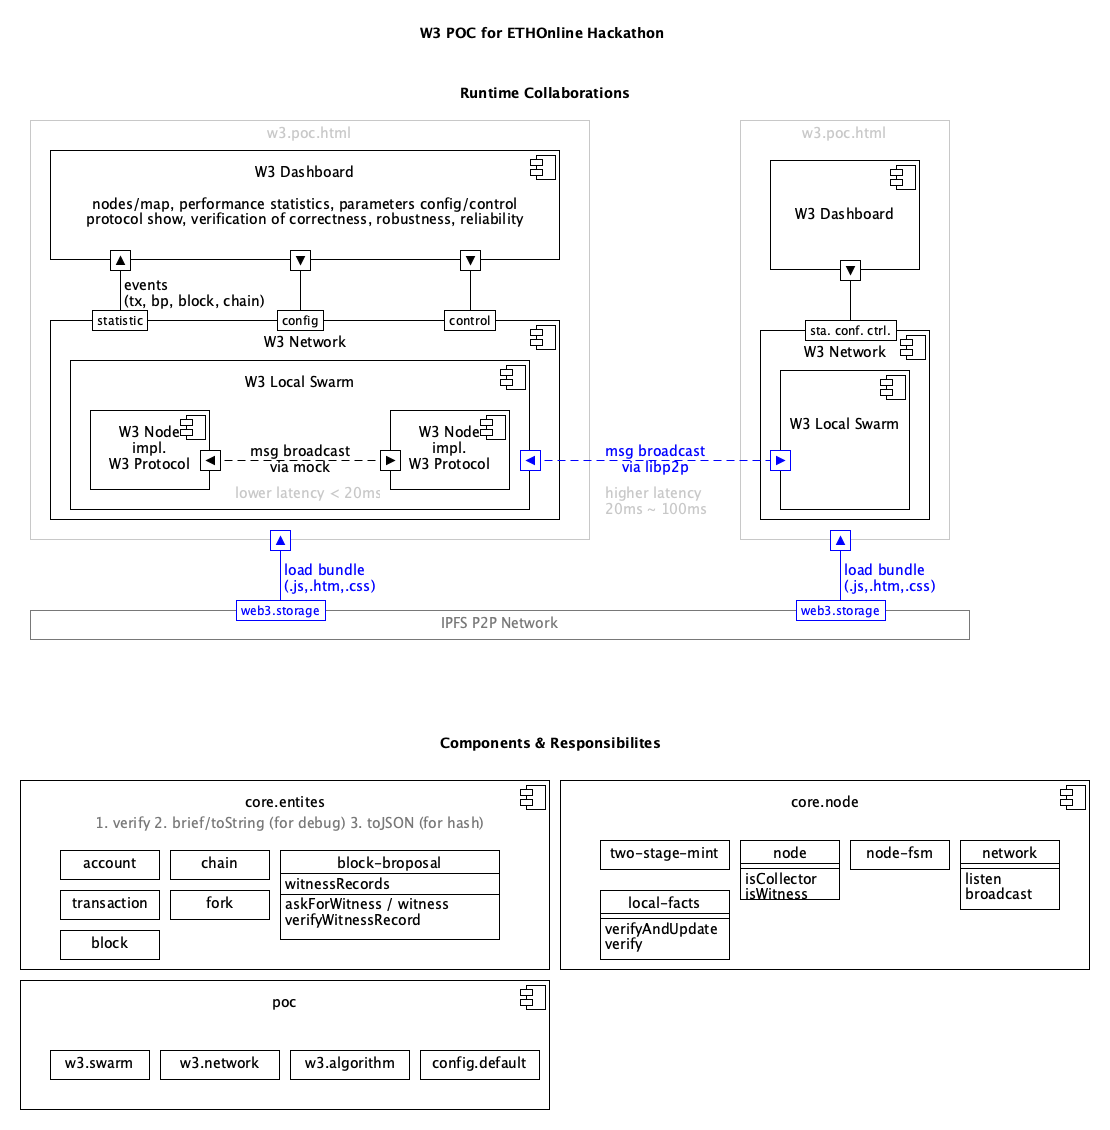
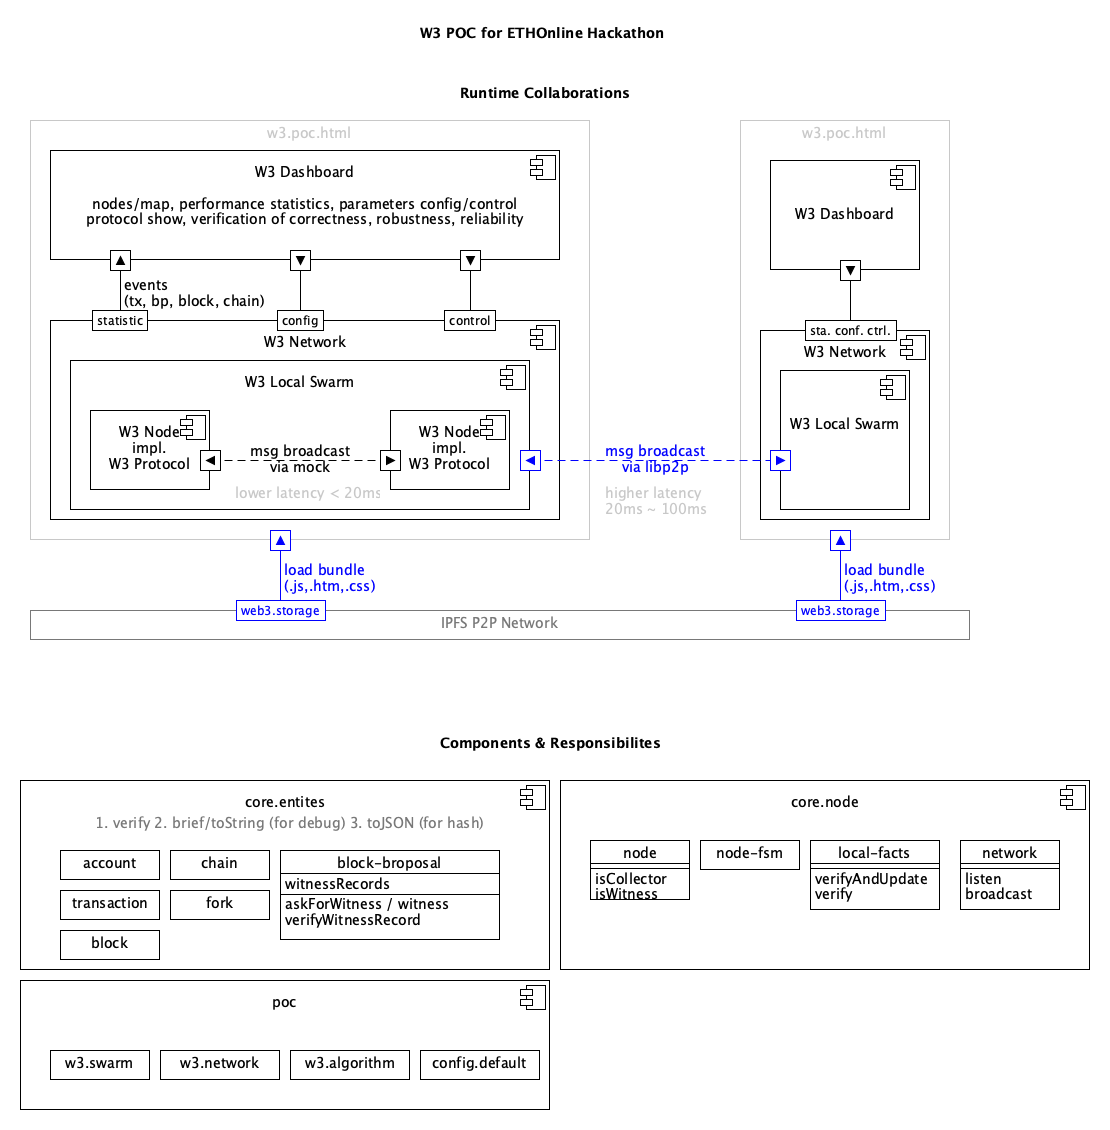
#2 refactor change names

Changed region(s): [[0.5207, 0.7434, 0.8577, 0.8363]]

diff --git a/src/w3/core/node/local-facts.js b/src/w3/core/node/local-facts.js
@@ -5,57 +5,86 @@ import EventEmitter2 from 'eventemitter2'
 
 const debug = Debug('w3:TxsPool')
 
+/**
+ * LocalFacts in used to verify messages (tx, bp, block, fork) received by a node in its 2-stages-mint process.
+ * If a message is verified, its data will verifyThenUpdateOrAddTx to local facts (pools), and the 2-stage-mint process will proceed,
+ * otherwise, the message will be droped and the process halts.
+ */
 class LocalFacts extends EventEmitter2{
   constructor (txCount) {
     super()
     this.txCount = txCount
     this.txPool = [] // { tx, state } state: tx | bp | block | chain
+    // TODO: all these pools may use in future in
+    this.bpPool = []
+    this.blockPool = []
+    this.forkPool = []
+  }
+
+  init(chain) {
+    this.chain = chain
   }
 
   reset () {
     this.txPool = []
   }
 
-  add (tx, state) {
-    let found = false, replaced = null
+  /**
+   * TODO: using traditional tx verification algorithm verify against local fact
+   * Illegal txPool
+   * 2. txPool with invalid nonce
+   * 3. txPool with invalid value
+   * 4. txPool with invalid fee
+   * 5. txPool with invalid gasPrice
+   * 9. txPool with invalid timestamp
+   *
+   * @return {valid: true | false, txRes: 'added' | 'replaced' | 'rejected' }
+   */
+  verifyThenUpdateOrAddTx (tx, state) {
+    let res = null
     for (let _tx of this.txPool) {
-      if (_tx.tx.equals(tx)) {
-        found = true
-        _tx.state = state
-        break
-      }
-
-      if (_tx.tx.isDoubleSpend(tx)) {
-        found = true
-        const winner = _tx.tx.resolveDoubleSpending(tx)
-        replaced = !_tx.tx.equals(winner)
-        replaced && (_tx.tx = winner)
-        _tx.state = state
-        // if (_tx.state === 'chain') 链上块错误，发送查询消息获取正确块，发送fork消息 // TODO: not implemented
-        // _tx.state 'tx', 'bp', 'block'阶段，直接替换，不需要发送消息，由其它节点自行分辨问题
-
-        // TODO: may also check current chain
-        break
-      }
-
+      if ('updatedState' === (res = this.updateStateWhenTxFound(_tx, tx, state))) break
+      if ( null !== (res = this.resolveDoubleSpendingWhenFound(_tx, tx, state))) break
     }
 
-    found || this.txPool.push({ tx, state })
-    const res = !found ? 'added' : replaced === null ? 'updatedState' : replaced ? 'replaced' : 'rejected'
-    this.emit('tx-added', {tx, state, res})
+    if (res === null ) {
+      res = 'added'
+      this.txPool.push({ tx, state })
+    }
+
+    this.emit('tx-updated-or-added', {tx, state, res})
     return res
   }
 
-  updateTxsState (txs, state) {
-    txs.map(tx => this.updateState(tx, state))
+  updateStateWhenTxFound (_tx, tx, state) {
+    return _tx.tx.equals(tx) ? ((_tx.state = state),  'updatedState') : null
   }
 
-  updateState (tx, state) {
+  resolveDoubleSpendingWhenFound (_tx, tx, state) {
+    let replaced = null
+    if (_tx.tx.isDoubleSpend(tx)) {
+      const winner = _tx.tx.resolveDoubleSpending(tx)
+      replaced = !_tx.tx.equals(winner)
+      replaced && (_tx.tx = winner)
+      _tx.state = state
+      // if (_tx.state === 'chain') 链上块错误，发送查询消息获取正确块，发送fork消息 // TODO: not implemented
+      // _tx.state 'tx', 'bp', 'block'阶段，直接替换，不需要发送消息，由其它节点自行分辨问题
+
+      // TODO: may also check current chain
+    }
+    return replaced === null ? null : replaced ? 'replaced' : 'rejected'
+  }
+
+  updateTxsState (txs, state) {
+    txs.map(tx => this.updateTxState(tx, state))
+  }
+
+  updateTxState (tx, state) {
     const _tx = this.txPool.find(_tx => _tx.tx.equals(tx))
     _tx && (_tx.state = state)
   }
 
-  pickEnoughForBp (txCount = this.txCount) {
+  pickEnoughTxsForBp (txCount = this.txCount) {
     const txs = this.txPool.filter(({ state }) => state === 'tx')
     if (txs.length === txCount) {
       // debug('--- SHOW: this.txPool.length: ', this.txPool.length)
@@ -73,22 +102,7 @@ class LocalFacts extends EventEmitter2{
 
   async verifyAndAddTx (tx, state = 'tx') {
     if (!await tx.verify()) return { valid: false, txRes: 'rejected' }
-    /**
-     * TODO: using traditional tx verification algorithem verify against local fact
-     * Illegal txPool
-     * 2. txPool with invalid nonce
-     * 3. txPool with invalid value
-     * 4. txPool with invalid fee
-     * 5. txPool with invalid gasPrice
-     * 5. txPool with invalid from
-     * 6. txPool with invalid to
-     * 9. txPool with invalid timestamp
-     *
-     * TODO: find double spend txPool add apply the Universal Rule
-     *
-     * results: 1. added, 2. replaced, 3. rejected
-     */
-    const txRes = this.add(tx, state)
+    const txRes = this.verifyThenUpdateOrAddTx(tx, state)
     return { valid: true, txRes}
   }
 
@@ -116,7 +130,7 @@ class LocalFacts extends EventEmitter2{
   async verifyBlockAndAddTxs (block, node) { // TODO: not tested in single node mode
     let valid = await block.verify(node)
     if (!valid) debug('--- FATAL: verifyBlockAndAddTxs: block is invalid, should not happen', block.brief)
-    let { allTxValid } = await this._verifyAndUpdateTxs(block.txs, valid ? 'chain' : 'tx') // valid block add to chain
+    let { allTxValid } = await this._verifyAndUpdateTxs(block.txs, valid ? 'chain' : 'tx') // valid block verifyThenUpdateOrAddTx to chain
     return { valid: valid && allTxValid }
   }
 

diff --git a/src/w3/core/node/node.js b/src/w3/core/node/node.js
@@ -22,6 +22,7 @@ class Node {
     // const chain = await this.initChain() // TODO bypass in theory test
     // this.chain = await Chain.create(chain)
     this.chain = await Chain.create()
+    this.localFacts.init(this.chain)
   }
 
   reset() {
@@ -70,9 +71,9 @@ class Node {
 
     this.network.listen('fork',  (fork) => this.handleForkWins(fork), this)
 
-    this.localFacts.on('tx-added', async ({tx, state, res}) => {
+    this.localFacts.on('tx-updated-or-added', async ({tx, state, res}) => {
       if (res === 'added') { // updatedState, replaced, rejected means the count of txPool in the pool is not change
-        const txs = this.localFacts.pickEnoughForBp()
+        const txs = this.localFacts.pickEnoughTxsForBp()
         txs && await this.askForWitnessAndMint(txs)
       }
     })
@@ -131,7 +132,7 @@ class Node {
     this.network.recordCollector(tx, this)
     // the tx is not only collected from tx messages, but also colected from bp, block, fork messages containing valid txPool
     // therefore refator the ASF logic to the localFacts's tx-added event handler
-    // const txPool = this.localFacts.pickEnoughForBp()
+    // const txPool = this.localFacts.pickEnoughTxsForBp()
     // txPool && addwait this.askForWitnessAndMint(txPool)
   }
 
@@ -168,7 +169,7 @@ class Node {
 
   async mintBlock (bp) {
     const block = Block.mint(bp, this.chain)
-    if (!this.isSingleNode) this.chain.addBlock(block, this) // add to local chain before broadcast, singleNodeMode will add it in handleNewBlock
+    if (!this.isSingleNode) this.chain.addBlock(block, this) // verifyThenUpdateOrAddTx to local chain before broadcast, singleNodeMode will verifyThenUpdateOrAddTx it in handleNewBlock
     this.localFacts.updateTxsState(block.txs, 'chain')
     this.network.broadcast('block', block, this) //this used in theory test to aviod of react on its own message
   }

diff --git a/src/w3/core/entities/transaction.js b/src/w3/core/entities/transaction.js
@@ -15,6 +15,22 @@ class Transaction {
     return `${this.i}:(${this.from?.i}#${this.nonce}(${this.value})=>${this.to?.i})`
   }
 
+
+  /**
+   * TODO: using traditional tx verification algorithm verify against local fact
+   * Illegal txPool
+   * 2. txPool with invalid nonce
+   * 3. txPool with invalid value
+   * 4. txPool with invalid fee
+   * 5. txPool with invalid gasPrice
+   * 5. txPool with invalid from
+   * 6. txPool with invalid to
+   * 9. txPool with invalid timestamp
+   *
+   * TODO: find double spend txPool verifyThenUpdateOrAddTx apply the Universal Rule
+   *
+   * results: 1. added, 2. replaced, 3. rejected
+   */
   async verify() {
     const valid = this.to && this.from && typeof this.nonce === 'number' && this.nonce >= 0 && this.value && this.sig && await this.verifySig()
     if (!valid) debug('--- FATAL: tx is invalid', this.brief)

diff --git a/test/unit/single.node.mode.test.js b/test/unit/single.node.mode.test.js
@@ -65,7 +65,7 @@ describe('Single Node Network Mode', () => {
 
   })
 
-  describe('add double spending txPool, only lower score one added', () => {
+  describe('verifyThenUpdateOrAddTx double spending txPool, only lower score one added', () => {
 
     it('lower one first, higher one rejected', async () => {
       const [low, high] = await w3.sendFakeDoubleSpendingTxs('lowerScore')

diff --git a/src/w3/poc/w3.network.js b/src/w3/poc/w3.network.js
@@ -10,7 +10,7 @@ class W3Network {
   async init(localSwarm) {
     // TODO: @Jian-ru 完成
     this.localSwarm = localSwarm
-    await this.libp2p = 'TODO' //
+    await  (async () => this.libp2p = 'TODO')() //
     this.topics.map(topic => {
       this.listen(topic)
       this.localSwarm.listen(topic, (msg) => {

diff --git a/src/w3/core/entities/chain.js b/src/w3/core/entities/chain.js
@@ -17,7 +17,7 @@ class Chain {
   }
 
   addBlock(block, node) {
-    debug('--- node: %s add block to its chain: ', node.i, block.brief)
+    debug('--- node: %s verifyThenUpdateOrAddTx block to its chain: ', node.i, block.brief)
     this.blocks.push(block)
     debug('--- SHOW chain: %s ', this.superBrief)
   }
